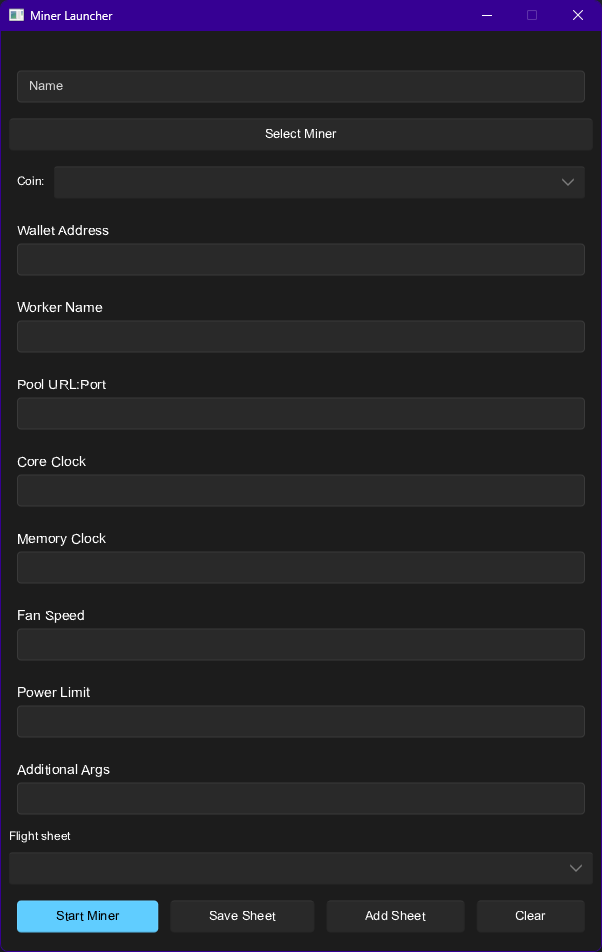
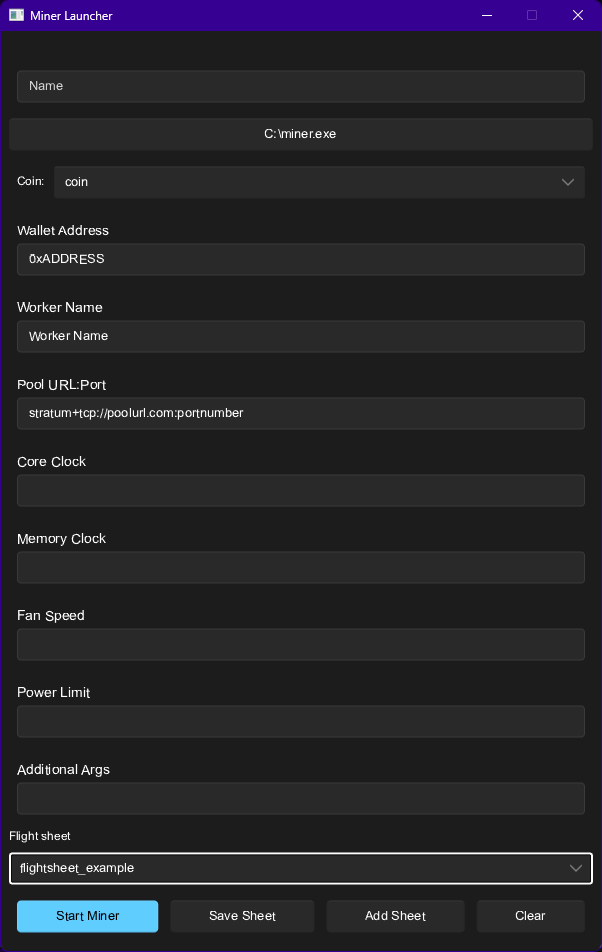
Update README

diff --git a/README.md b/README.md
@@ -1,3 +1,66 @@
 # MinerLauncher
 
+![alt text](https://github.com/Outerbeast/MinerLauncher/blob/main/preview.png?raw=true)
+
 Quick launcher for mining tools through a flightsheet system
+
+
+## Usage
+1. 	Configure your flight sheet
+
+Fill in the required fields in the GUI:
+- Executable path (e.g., )
+- Coin type
+- Wallet address
+- Worker name
+- Pool URL and port
+- Optional: core/memory clock, fan speed, power limit, extra arguments (requires admin privledges)
+
+2. Manage flight sheets
+- Use the dropdown to select a saved flight sheet.
+- Click Save Sheet to store current settings.
+- Click Add Sheet to create a new one.
+- Click Clear to reset the form.
+
+3. Start mining
+- Click Start Miner to launch the miner with the configured settings
+
+
+# Building from source
+
+## Prerequisites
+
+1⃣ Install Rust
+
+- Visit [https://rustup.rs](https://rustup.rs) and download the Windows installer.
+- Run it and accept the defaults (this installs `cargo`, `rustc`, and `rustup`).
+- Close and reopen any terminal/PowerShell windows after installation.
+
+---
+
+## Build instructions
+
+1. Download or clone the repository:
+
+```cmd
+git clone https://github.com/Outerbeast/MinerLauncher.git
+cd MinerLauncher
+```
+
+2. Run the build script:
+
+- Double-click build.cmd or run it manually:
+
+```cmd
+build.cmd
+```
+
+The executable will be generated in the current directory.
+
+# Credits
+Outerbeast - Author
+
+
+### Special Thanks
+
+MinerLauncher user interface is powered by [Slint](https://slint.dev/).
